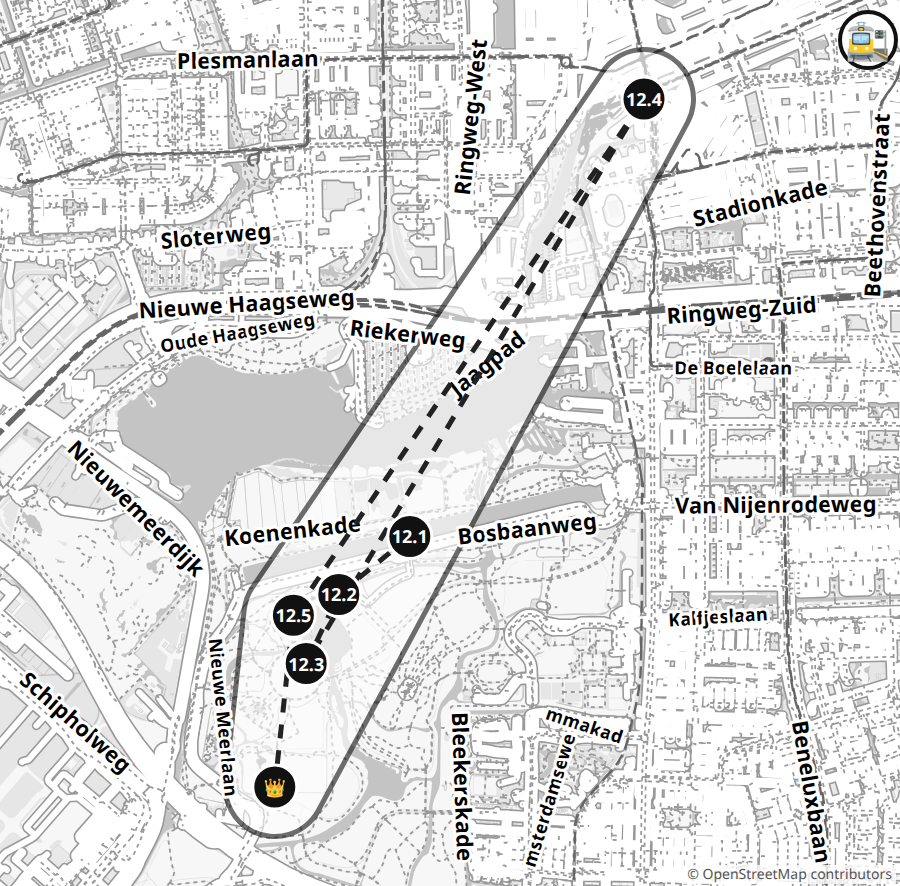
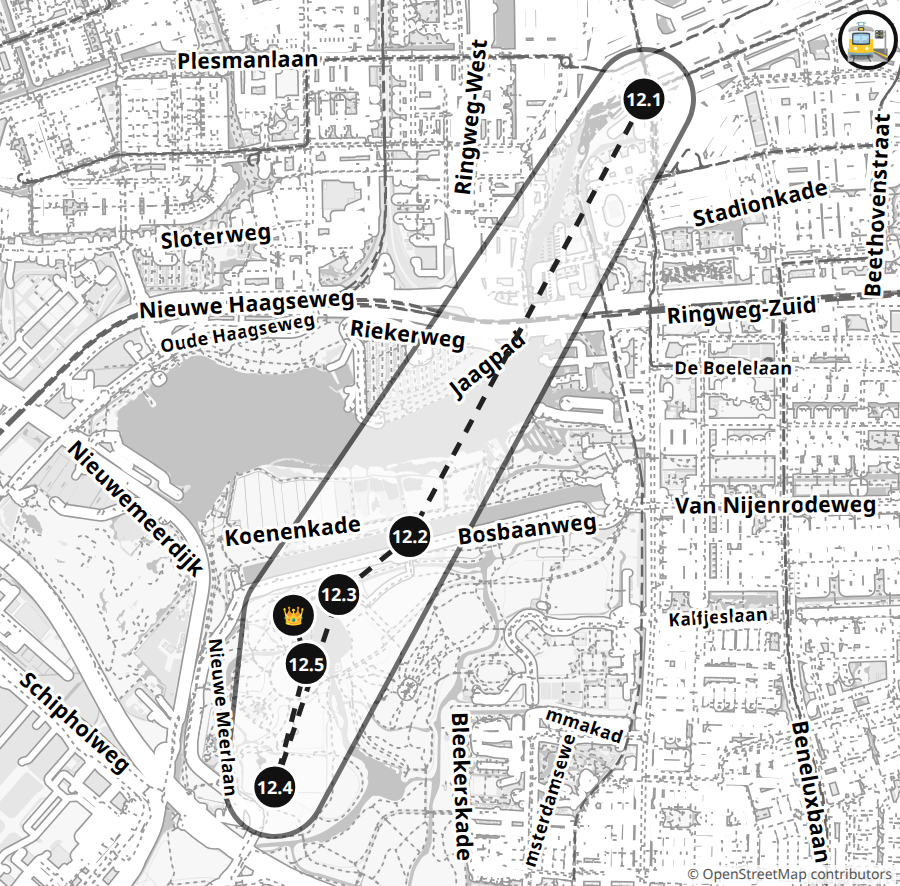
Amsterdam iteration 5: zones 9–12 feedback, Sunday-proof outings
- Zone 10 starts in De Pijp, Sarphati monument replaces the market stroopwafel, Rijksmuseum boss last
- Zone 11: no home reference, body-based roe measure, arm-circle duel
- Zone 12: forest boat with a passenger becomes the boss, goat farm a regular stop
- Day plans no longer assume Saturday; Sunday hours in tips
- Skill: ask outing weekdays, prefer outdoor tasks, concrete measuring, safe endurance duels, boss follows difficulty

diff --git a/.claude/skills/city-quest/references/challenge-design.md b/.claude/skills/city-quest/references/challenge-design.md
@@ -69,6 +69,14 @@ up the big thing → compare or multiply (with a parent's help for big
 numbers). Give the real number in `answer` when a source has it, otherwise
 make it self-checking. Ask the family to note the child's step, height, arm span and
 hand width at home (`measures` field → blanks on the hunt or rules card).
+The thing to measure must be **right there and small enough to do**: a
+house front, a bridge, one old unit of length. Never "walk 1200 roe" or "how
+many steps in 4.4 km": the kid can't see what to measure, and multiplying
+giant numbers is homework. Make a big or abstract number tangible with the
+body instead ("one roe ≈ 3.7 m: how many times do you fit in it lying down?
+Measure like a caterpillar") and give the big total only as a story ("the bus
+drove 1200 of these"). Old units and distances differ by source — check two
+and say so in `answer` when they disagree.
 
 **Limitations** make a task harder or create a new one: eyes closed (holding
 a parent's hand), on one foot, one hand behind the back ("count the towers
@@ -79,6 +87,9 @@ becomes a race. Give the kid a fair chance: parents count with one hand behind
 their back, kid gets a 10-second head start, etc. — say so in the text.
 **Duel coins**: the kid gets the challenge's coins for playing, win or lose
 (the family is one team); winning adds +1 bonus. State this in the rules.
+Endurance duels need a **clear, safe end condition** that both sides can see:
+"keep making big arm circles — arm down or stopped, you're out", not "spin
+until you fall" (dizziness, falls, and no one knows who lost first).
 
 The **boss** of a zone is tied to its most famous landmark and is a bit bigger:
 a multi-step find, a pose/photo, a build, or a climb. It must be **genuinely
@@ -86,7 +97,10 @@ harder** than the other tasks — something that may fail the first time and
 needs a retry: a limitation with a fail condition ("cross the bridge with eyes
 closed without touching the railings — touched it, start again"; "back down
 the steps backwards, holding the rail"). Finding and counting alone is not a
-boss. An optional brave extra (a swing over the edge) can add bonus coins.
+boss. After drafting a zone, rank its tasks by difficulty: if a regular task
+is harder than the boss (a boat that must float with a passenger vs "pet a
+goat"), swap them — the boss task follows the difficulty, and the famous
+landmark can still be a normal stop. An optional brave extra (a swing over the edge) can add bonus coins.
 **Put the boss last** in the zone's route: the zone ends with its finale. If
 other tasks are at the same venue as the boss (inside a museum, a store),
 list them right before it, so the card reads in the order they happen. Use
@@ -192,6 +206,15 @@ Parents must be able to check results, and wrong "facts" ruin trust. So:
 - Check opening days/hours, closures and renovations for the trip dates, and
   seasonal things (markets, festivals, fountains off in winter). Put this in
   each zone's `logistics` and in `parent.tips`.
+- **Prefer the outdoors to opening hours.** Most tasks should work on any
+  day: facades, bridges, parks, playgrounds, monuments, rides on regular
+  transport. Use a venue only when it is the point (a museum with several
+  tasks, the LEGO store), and check it is open on the family's usual day
+  (Sundays: markets and small shops are often closed, shops open late).
+  Don't build a task on a market or a shop with short hours; mention it as a
+  bonus in `logistics` instead. In a campaign, at most 1–2 outings may need a
+  specific weekday; label `parent.days` "выходной"/"weekend" rather than a
+  weekday the family didn't choose.
 - For taste challenges name a concrete, kid-plausible dish and where in or near
   the zone it is sold, with a rough price.
 - **Stories for the parents**: every task with a place gets `facts` — 50–100

diff --git a/.claude/skills/city-quest/SKILL.md b/.claude/skills/city-quest/SKILL.md
@@ -33,7 +33,8 @@ that holds this skill in `.claude/skills/city-quest/`).
 published as web pages), while the profile is not. Use the profile to shape
 the quest (age, wording, likes, language), but never copy identifying details
 into `quest.json` or the notes: no names, home address or street, house
-number, school, or "our house" tasks. Start a home-city campaign at a public
+number, school, or "our house" tasks — not even in passing in a story
+("the gate next to our house" gives the neighbourhood away). Start a home-city campaign at a public
 place (a main station or square) and use public landmarks for "find X from
 the tower" tasks. Keep the kid's age and gender out of the visible text
 except through the wording itself.
@@ -73,6 +74,9 @@ preferences you are assuming so the user can correct them.
 What matters, roughly in order:
 1. **When**: date (or season), arrival and departure times / how many hours.
    Opening days, markets, seasonal rides and daylight all depend on it.
+   Never assume the weekday: ask which days they actually go out (many
+   families have busy Saturdays and go on Sundays). Then check every venue
+   for those days.
    For the home city or a long stay, ask whether it is one day or a
    **campaign** of many outings (see campaign mode in step 5).
 2. **Getting there and around**: arrival point (station, car park, hotel) and
